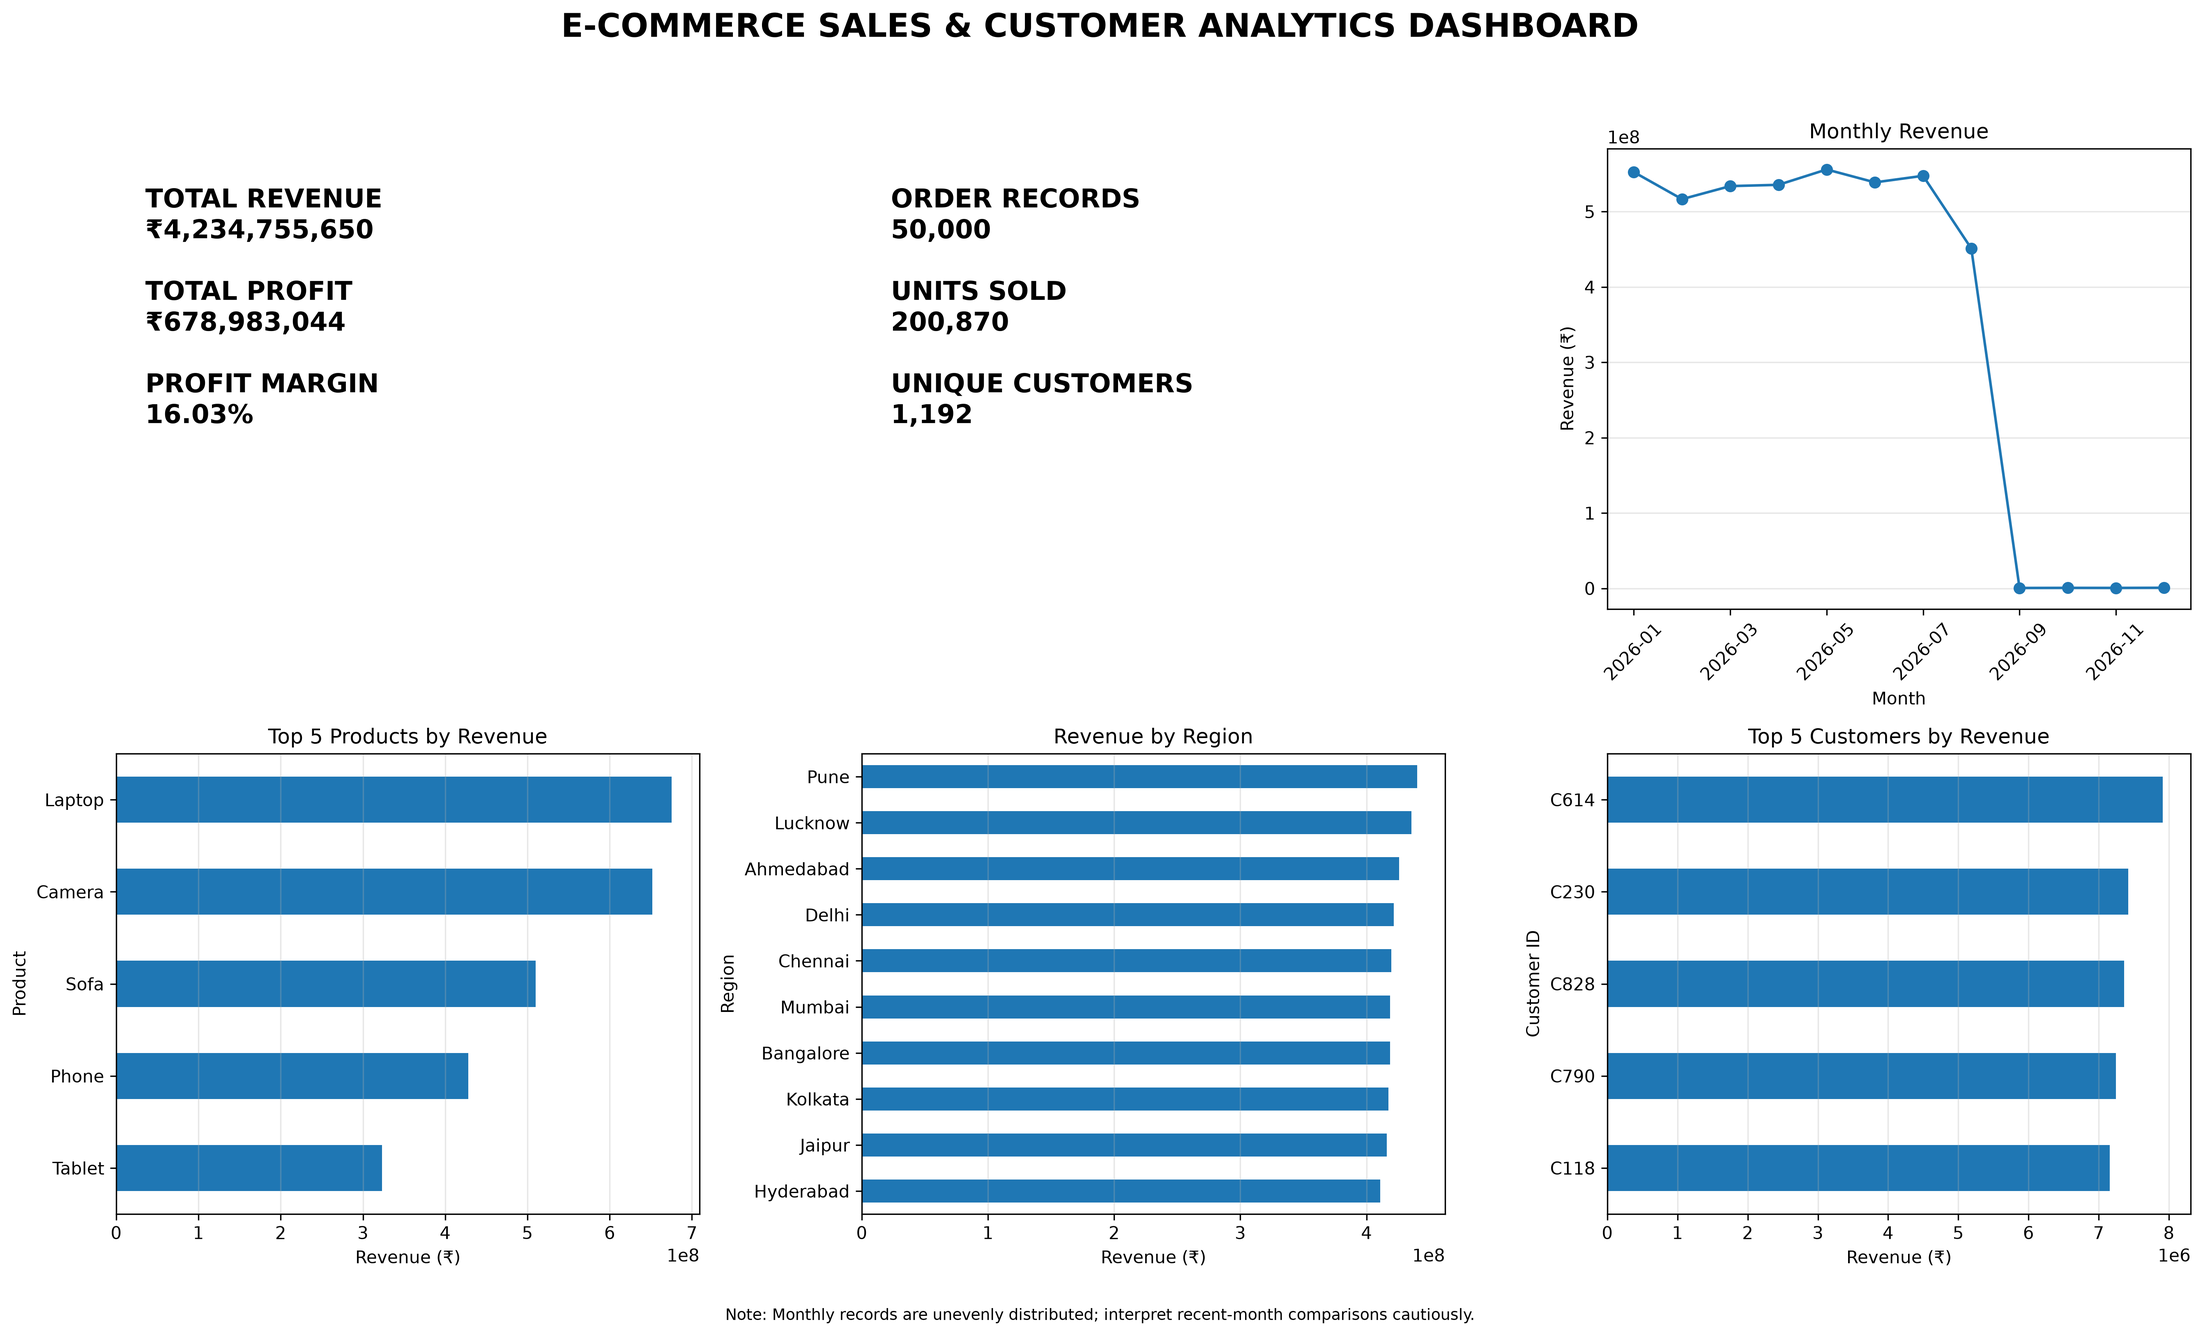
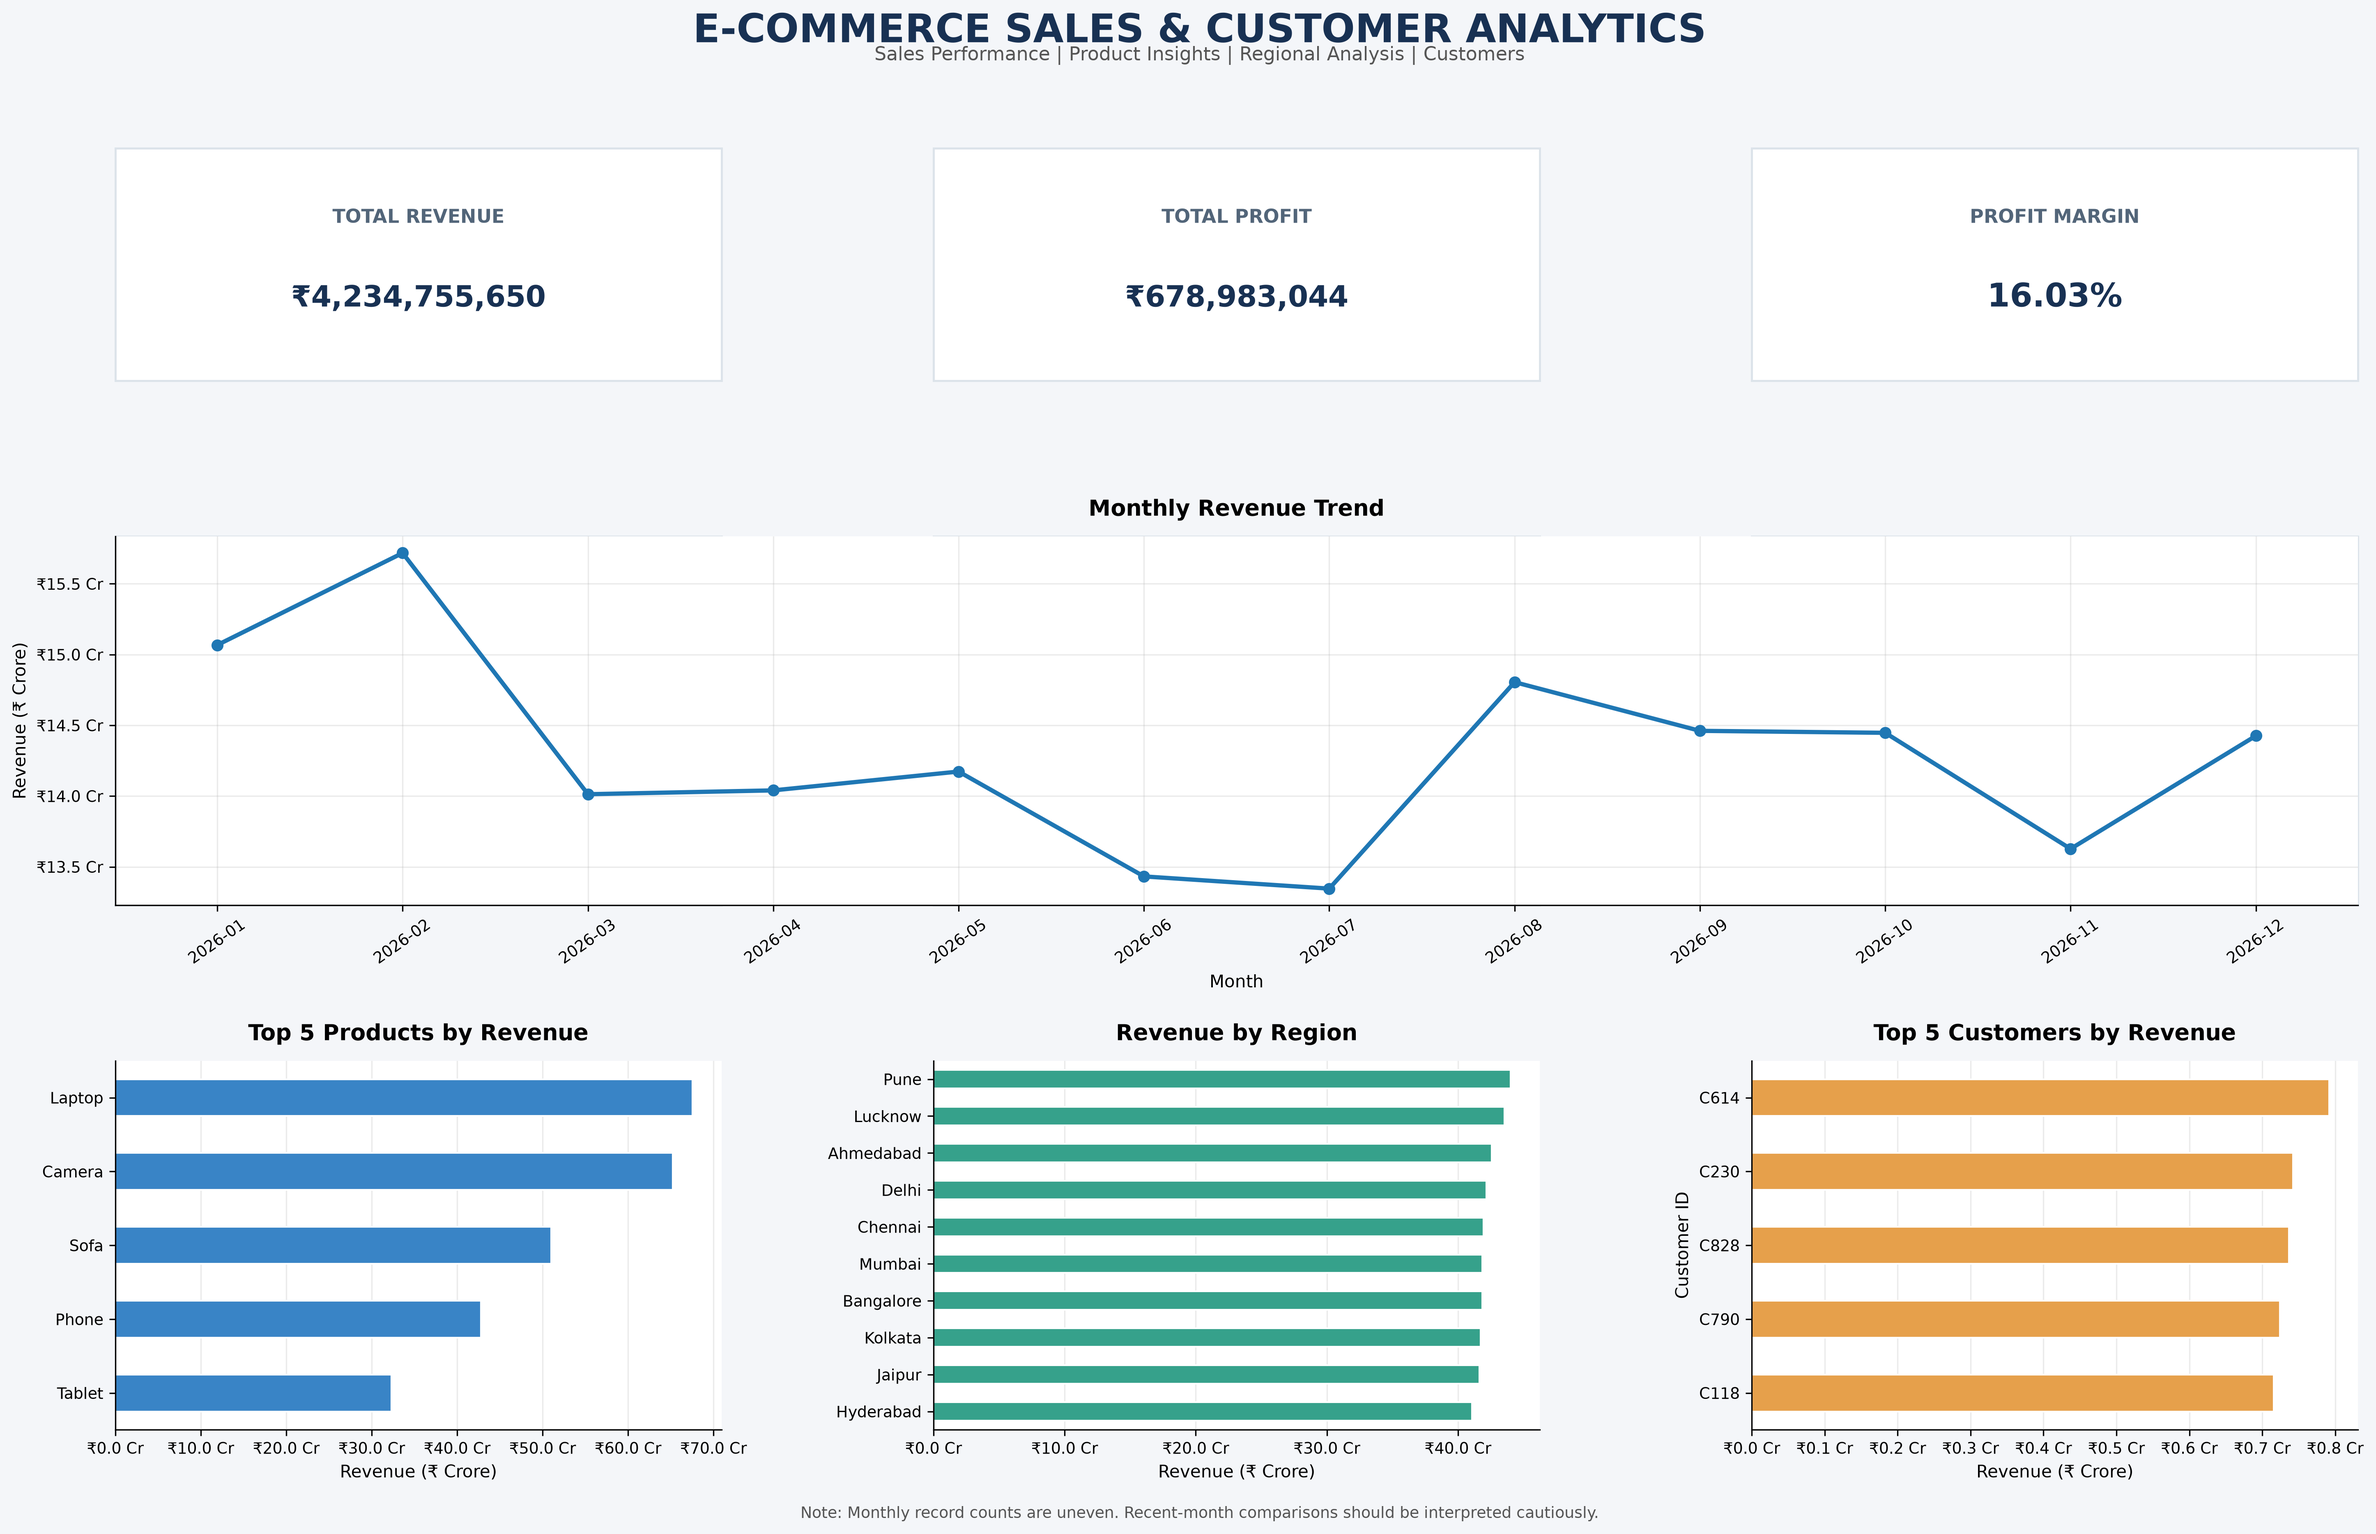
Update final analytics dashboard

diff --git a/data/03_EDA/final_dashboard.py b/data/03_EDA/final_dashboard.py
@@ -172,3 +172,368 @@ plt.close()
 
 print("DASHBOARD CREATED SUCCESSFULLY!")
 print(f"Dashboard saved at: {OUTPUT_FILE}")
+
+import pandas as pd
+import matplotlib.pyplot as plt
+import matplotlib.ticker as mticker
+from pathlib import Path
+
+# --------------------------------------------------
+# 1. PROJECT PATHS
+# --------------------------------------------------
+BASE_DIR = Path(__file__).resolve().parent.parent
+
+DATA_FILE = (
+    BASE_DIR
+    / "02_Cleaned_Data"
+    / "cleaned_ecommerce_sales.csv"
+)
+
+OUTPUT_FILE = BASE_DIR / "03_EDA" / "final_dashboard.png"
+
+# --------------------------------------------------
+# 2. LOAD AND PREPARE DATA
+# --------------------------------------------------
+df = pd.read_csv(DATA_FILE)
+
+# Parse dates using day-first interpretation
+df["Order_Date"] = pd.to_datetime(
+    df["Order_Date"],
+    errors="coerce",
+    dayfirst=True
+)
+
+for column in ["Revenue", "Profit", "Quantity"]:
+    df[column] = pd.to_numeric(
+        df[column].astype(str).str.replace(",", "", regex=False),
+        errors="coerce"
+    )
+
+df = df.dropna(subset=["Revenue", "Profit", "Quantity"])
+
+# Standardize product names
+product_mapping = {
+    "Smart Watch": "Smartwatch",
+    "smart watch": "Smartwatch",
+    "makeup kit": "Makeup Kit",
+    "MAKEUP KIT": "Makeup Kit",
+    "Make Up Kit": "Makeup Kit",
+    "Vacum Cleaner": "Vacuum Cleaner",
+    "Vacuum cleaner": "Vacuum Cleaner",
+    "vacuum cleaner": "Vacuum Cleaner",
+    "HEADPHONES": "Headphones",
+    "Head Phones": "Headphones",
+    "headphones": "Headphones",
+}
+
+df["Product"] = (
+    df["Product"].astype(str).str.strip().replace(product_mapping)
+)
+
+df["Region"] = df["Region"].astype(str).str.strip().str.title()
+
+# --------------------------------------------------
+# 3. CALCULATE BUSINESS KPIs
+# --------------------------------------------------
+total_revenue = df["Revenue"].sum()
+total_profit = df["Profit"].sum()
+total_records = len(df)
+total_units = df["Quantity"].sum()
+
+customer_ids = df["Customer_ID"].fillna("").astype(str).str.strip()
+
+valid_customer_ids = customer_ids[
+    ~customer_ids.str.lower().isin(["", "unknown", "nan", "none"])
+]
+
+unique_customers = valid_customer_ids.nunique()
+
+profit_margin = (
+    total_profit / total_revenue * 100
+    if total_revenue != 0 else 0
+)
+
+# --------------------------------------------------
+# 4. PREPARE CHART DATA
+# --------------------------------------------------
+
+# Monthly revenue
+monthly_data = df.dropna(subset=["Order_Date"]).copy()
+
+monthly_data["Month"] = (
+    monthly_data["Order_Date"].dt.to_period("M")
+)
+
+monthly_revenue = (
+    monthly_data.groupby("Month")["Revenue"]
+    .sum()
+    .sort_index()
+)
+
+# Top 5 products
+product_revenue = (
+    df.groupby("Product")["Revenue"]
+    .sum()
+    .nlargest(5)
+    .sort_values()
+)
+
+# Revenue by region
+region_revenue = (
+    df[df["Region"].str.lower() != "unknown"]
+    .groupby("Region")["Revenue"]
+    .sum()
+    .sort_values()
+)
+
+# Top 5 valid customers
+customer_data = df.copy()
+customer_data["Customer_ID"] = customer_ids
+
+customer_data = customer_data[
+    ~customer_data["Customer_ID"].str.lower().isin(
+        ["", "unknown", "nan", "none"]
+    )
+]
+
+top_customers = (
+    customer_data.groupby("Customer_ID")["Revenue"]
+    .sum()
+    .nlargest(5)
+    .sort_values()
+)
+
+# --------------------------------------------------
+# 5. CHART FORMATTING
+# --------------------------------------------------
+
+def crore_formatter(value, position):
+    return f"₹{value / 10_000_000:.1f} Cr"
+
+
+def style_axis(ax, title, xlabel):
+    ax.set_title(title, fontsize=13, fontweight="bold", pad=12)
+    ax.set_xlabel(xlabel, fontsize=10)
+    ax.grid(axis="x", alpha=0.25)
+    ax.set_axisbelow(True)
+    ax.spines["top"].set_visible(False)
+    ax.spines["right"].set_visible(False)
+    ax.tick_params(axis="both", labelsize=9)
+
+
+# --------------------------------------------------
+# 6. CREATE PROFESSIONAL DASHBOARD
+# --------------------------------------------------
+
+fig = plt.figure(figsize=(20, 13), facecolor="#F4F6F9")
+
+fig.suptitle(
+    "E-COMMERCE SALES & CUSTOMER ANALYTICS",
+    fontsize=23,
+    fontweight="bold",
+    y=0.975,
+    color="#183153"
+)
+
+fig.text(
+    0.5, 0.945,
+    "Sales Performance | Product Insights | Regional Analysis | Customers",
+    ha="center",
+    fontsize=11,
+    color="#555555"
+)
+
+gs = fig.add_gridspec(
+    3, 3,
+    left=0.06,
+    right=0.97,
+    top=0.89,
+    bottom=0.09,
+    height_ratios=[0.85, 1.35, 1.35],
+    hspace=0.48,
+    wspace=0.35
+)
+
+# --------------------------------------------------
+# 7. KPI CARDS
+# --------------------------------------------------
+
+kpis = [
+    ("TOTAL REVENUE", f"₹{total_revenue:,.0f}"),
+    ("TOTAL PROFIT", f"₹{total_profit:,.0f}"),
+    ("PROFIT MARGIN", f"{profit_margin:.2f}%"),
+    ("ORDER RECORDS", f"{total_records:,}"),
+    ("UNITS SOLD", f"{total_units:,.0f}"),
+    ("UNIQUE CUSTOMERS", f"{unique_customers:,}")
+]
+
+for i, (label, value) in enumerate(kpis):
+    row = i // 3
+    col = i % 3
+
+    ax = fig.add_subplot(gs[row, col])
+    ax.set_facecolor("white")
+    ax.set_xticks([])
+    ax.set_yticks([])
+
+    for spine in ax.spines.values():
+        spine.set_color("#DCE3EA")
+        spine.set_linewidth(1.2)
+
+    ax.text(
+        0.5, 0.68, label,
+        transform=ax.transAxes,
+        ha="center",
+        fontsize=11,
+        fontweight="bold",
+        color="#526579"
+    )
+
+    ax.text(
+        0.5, 0.32, value,
+        transform=ax.transAxes,
+        ha="center",
+        fontsize=17 if i < 2 else 19,
+        fontweight="bold",
+        color="#183153"
+    )
+
+# --------------------------------------------------
+# 8. MONTHLY REVENUE CHART
+# --------------------------------------------------
+
+ax1 = fig.add_subplot(gs[1, :])
+
+if not monthly_revenue.empty:
+    month_labels = monthly_revenue.index.astype(str)
+
+    ax1.plot(
+        month_labels,
+        monthly_revenue.values,
+        marker="o",
+        linewidth=2.5,
+        markersize=6
+    )
+
+    ax1.yaxis.set_major_formatter(
+        mticker.FuncFormatter(crore_formatter)
+    )
+
+    ax1.tick_params(axis="x", rotation=35)
+
+    style_axis(
+        ax1,
+        "Monthly Revenue Trend",
+        "Month"
+    )
+
+    ax1.set_ylabel("Revenue (₹ Crore)", fontsize=10)
+
+    ax1.grid(axis="y", alpha=0.25)
+
+# --------------------------------------------------
+# 9. TOP PRODUCTS BY REVENUE
+# --------------------------------------------------
+
+ax2 = fig.add_subplot(gs[2, 0])
+
+product_revenue.plot(
+    kind="barh",
+    ax=ax2,
+    color="#3984C6",
+    edgecolor="white"
+)
+
+ax2.xaxis.set_major_formatter(
+    mticker.FuncFormatter(crore_formatter)
+)
+
+style_axis(
+    ax2,
+    "Top 5 Products by Revenue",
+    "Revenue (₹ Crore)"
+)
+
+ax2.set_ylabel("")
+
+# --------------------------------------------------
+# 10. REVENUE BY REGION
+# --------------------------------------------------
+
+ax3 = fig.add_subplot(gs[2, 1])
+
+region_revenue.plot(
+    kind="barh",
+    ax=ax3,
+    color="#36A18B",
+    edgecolor="white"
+)
+
+ax3.xaxis.set_major_formatter(
+    mticker.FuncFormatter(crore_formatter)
+)
+
+style_axis(
+    ax3,
+    "Revenue by Region",
+    "Revenue (₹ Crore)"
+)
+
+ax3.set_ylabel("")
+
+# --------------------------------------------------
+# 11. TOP CUSTOMERS BY REVENUE
+# --------------------------------------------------
+
+ax4 = fig.add_subplot(gs[2, 2])
+
+top_customers.plot(
+    kind="barh",
+    ax=ax4,
+    color="#E6A04B",
+    edgecolor="white"
+)
+
+ax4.xaxis.set_major_formatter(
+    mticker.FuncFormatter(crore_formatter)
+)
+
+style_axis(
+    ax4,
+    "Top 5 Customers by Revenue",
+    "Revenue (₹ Crore)"
+)
+
+ax4.set_ylabel("Customer ID")
+
+# --------------------------------------------------
+# 12. FOOTNOTE AND SAVE
+# --------------------------------------------------
+
+fig.text(
+    0.5, 0.035,
+    "Note: Monthly record counts are uneven. Recent-month comparisons "
+    "should be interpreted cautiously.",
+    ha="center",
+    fontsize=9,
+    color="#555555"
+)
+
+OUTPUT_FILE.parent.mkdir(parents=True, exist_ok=True)
+
+plt.savefig(
+    OUTPUT_FILE,
+    dpi=300,
+    bbox_inches="tight",
+    facecolor=fig.get_facecolor()
+)
+
+plt.close(fig)
+
+print("DASHBOARD CREATED SUCCESSFULLY!")
+print(f"Total Revenue: ₹{total_revenue:,.0f}")
+print(f"Total Profit: ₹{total_profit:,.0f}")
+print(f"Profit Margin: {profit_margin:.2f}%")
+print(f"Unique Customers: {unique_customers:,}")
+print(f"Dashboard saved at: {OUTPUT_FILE}")
+
